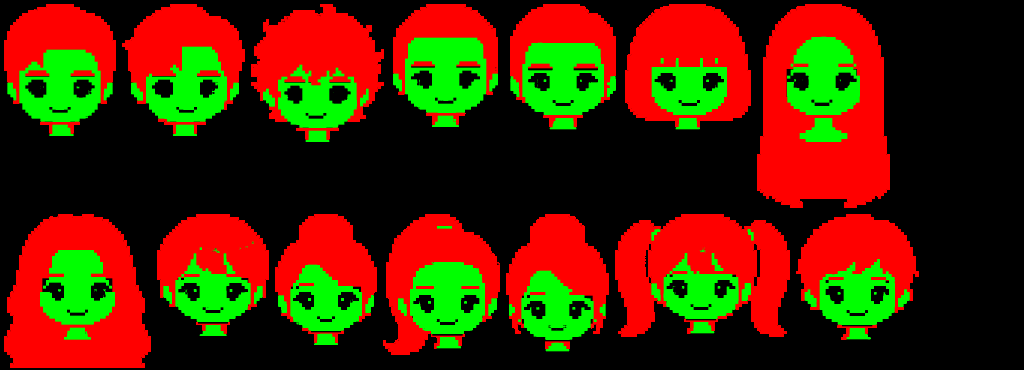
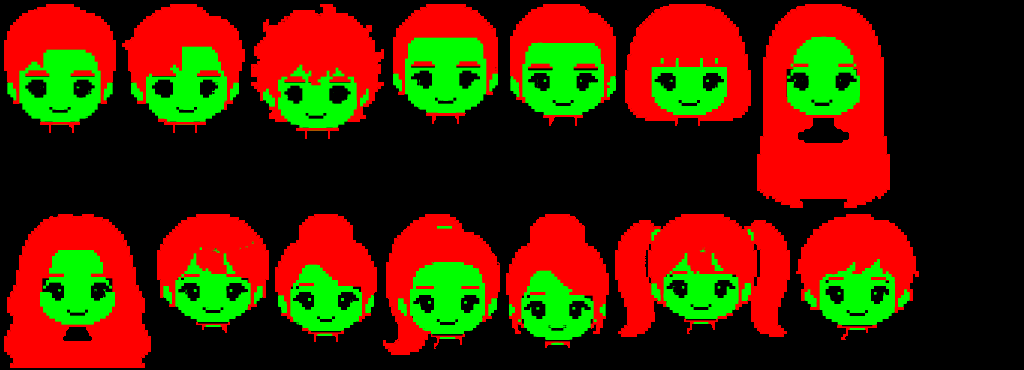
도트 인형: 목을 턱 밑으로 겹쳐 잇고, 액세서리 크기를 줄이고, 만들기 화면의 미리보기를 위에 고정
Claude-Session: https://claude.ai/code/session_01Jtt5uzLiW8yjS3APizsEdW

diff --git a/web/src/guestbook/styles/doll/index.ts b/web/src/guestbook/styles/doll/index.ts
@@ -25,7 +25,10 @@ export const DOLL_H = 336
 /** 발바닥 선 / 가로 중심 / 두 눈 사이 기준점의 y */
 export const DOLL_FOOT_Y = 329
 const CX = DOLL_W / 2
-const EYE_Y = 115
+/** 몸 그림의 맨 위(목)가 두 눈 사이 기준점에서 얼마나 아래에 오는지 — 턱(약 34) 바로 안쪽으로 밀어 넣어 목이 짧게 이어진다 */
+const NECK_DY = 30
+/** 얼굴을 몸 위에 다시 덮는 범위: 기준점에서 턱 끝까지 */
+const CHIN_DY = 35
 
 interface Swatch {
   label: string
@@ -68,14 +71,14 @@ const OUTFIT_COLORS: Swatch[] = [
 ]
 /** 액세서리 위치: 두 눈 사이 기준점에서 그림 중심까지의 거리(dx, dy)와 배율. 0번은 '없음' */
 const ACC_PLACE: { dx: number; dy: number; s: number }[] = [
-  { dx: 0, dy: 3, s: 0.92 }, // 동그란 안경
-  { dx: 0, dy: 3, s: 0.92 }, // 선글라스
-  { dx: 30, dy: -56, s: 0.5 }, // 리본
-  { dx: 0, dy: -50, s: 0.82 }, // 화관
-  { dx: 0, dy: -62, s: 1 }, // 밀짚모자
-  { dx: 3, dy: -62, s: 0.95 }, // 베레모
-  { dx: 0, dy: -62, s: 0.6 }, // 티아라
-  { dx: 0, dy: -22, s: 1.02 }, // 헤드폰
+  { dx: 0, dy: 2, s: 0.74 }, // 동그란 안경
+  { dx: 0, dy: 2, s: 0.74 }, // 선글라스
+  { dx: 30, dy: -50, s: 0.36 }, // 리본
+  { dx: 0, dy: -47, s: 0.66 }, // 화관
+  { dx: 0, dy: -57, s: 0.88 }, // 밀짚모자
+  { dx: 3, dy: -58, s: 0.82 }, // 베레모
+  { dx: 0, dy: -58, s: 0.42 }, // 티아라
+  { dx: 0, dy: -20, s: 0.9 }, // 헤드폰
 ]
 
 const COUNTS: Record<PartKey, number> = {
@@ -342,16 +345,22 @@ export function getSprite(kind: SpriteKind, dir: Dir, frame: Frame, scale: numbe
   ctx.beginPath()
   ctx.ellipse(CX, DOLL_FOOT_Y - 2, 52, 7, 0, 0, Math.PI * 2)
   ctx.fill()
-  // 머리(긴 머리는 어깨 뒤로 내려온다) → 몸 → 액세서리
-  const hy = EYE_Y - hd.ey + nod * 2
-  ctx.drawImage(head, CX - hd.ex, hy)
-  ctx.drawImage(body, CX - bd.ax, DOLL_FOOT_Y - bd.rect[3])
+  // 발을 바닥에 맞추고, 그 몸의 목 위치에 머리를 얹는다 (옷마다 키가 조금 다르다)
+  const bodyTop = DOLL_FOOT_Y - bd.rect[3]
+  const eyeY = bodyTop - NECK_DY + nod * 2
+  const hx = CX - hd.ex
+  const hy = eyeY - hd.ey
+  // 머리 전체(긴 머리는 어깨 뒤로 내려온다) → 몸 → 턱 위 얼굴을 다시 덮어 목이 턱 밑으로 들어가게 → 액세서리
+  ctx.drawImage(head, hx, hy)
+  ctx.drawImage(body, CX - bd.ax, bodyTop)
+  const faceH = Math.min(hd.rect[3], hd.ey + CHIN_DY)
+  ctx.drawImage(head, 0, 0, hd.rect[2], faceH, hx, hy, hd.rect[2], faceH)
   if (a.accessory > 0) {
     const r = ATLAS.acc[a.accessory - 1].rect
     const p = ACC_PLACE[a.accessory - 1]
     const w = r[2] * p.s
     const h = r[3] * p.s
-    ctx.drawImage(acc, r[0], r[1], r[2], r[3], CX + p.dx - w / 2, EYE_Y + p.dy - h / 2 + nod * 2, w, h)
+    ctx.drawImage(acc, r[0], r[1], r[2], r[3], CX + p.dx - w / 2, eyeY + p.dy - h / 2, w, h)
   }
 
   const px = canvas.width * canvas.height

diff --git a/web/src/guestbook/styles/registry.ts b/web/src/guestbook/styles/registry.ts
@@ -119,12 +119,12 @@ export const STYLE_META: Readonly<Record<StyleId, StyleMeta>> = {
     pixelated: false,
     snap: false,
     // 인물(머리 꼭대기~발)이 그림 높이의 약 88% — 다른 그림체와 키가 비슷해지는 값
-    worldH: 44,
-    headFrac: 0.9,
+    worldH: 47,
+    headFrac: 0.86,
     shadowR: 0,
     halfW: 11,
     sep: 1.15,
-    bust: { top: 30, w: 150 },
+    bust: { top: 40, w: 150 },
     counts: { skin: 6, hairStyle: 14, hairColor: 10, outfit: 12, outfitColor: 12, accessory: 9 },
   },
 }

diff --git a/web/src/guestbook/ui/CharacterCreator.css b/web/src/guestbook/ui/CharacterCreator.css
@@ -104,6 +104,11 @@
   padding: 12px 0 4px;
   background: linear-gradient(180deg, var(--paper-2), var(--paper));
   border-radius: var(--radius);
+  /* 파츠 목록을 내려도 완성 모습은 계속 위에 보인다 */
+  position: sticky;
+  top: 0;
+  z-index: 5;
+  box-shadow: 0 6px 10px -8px rgb(59 51 43 / 0.35);
 }
 .cc-stage-btn {
   position: relative;

diff --git a/art/gemini/build.py b/art/gemini/build.py
@@ -113,6 +113,10 @@ for bi, box in enumerate(boxes):
     sizes = ndi.sum(hair, lab, range(1, n + 1))
     for i, sz in enumerate(sizes):
         if sz < 400: hair[lab == i + 1] = False
+    # 턱 아래의 목·어깨(피부)는 지운다 — 목은 몸 그림의 것을 쓰고, 머리는 턱까지만 얹는다 (목이 두 번 그려져 길어 보이지 않게)
+    below = dy > 104
+    neck = ndi.binary_dilation(skin & below, iterations=5) & below
+    alpha[neck] = 0
     m = np.zeros(c.shape, np.float32); m[..., 0] = hair; m[..., 1] = skin & ~hair
     hm = hair & (v > 0.3)
     hair_sum += c[hm].sum(0); hair_n += hm.sum(); skin_sum += c[skin & (v > 0.9)].sum(0); skin_n += (skin & (v > 0.9)).sum()
